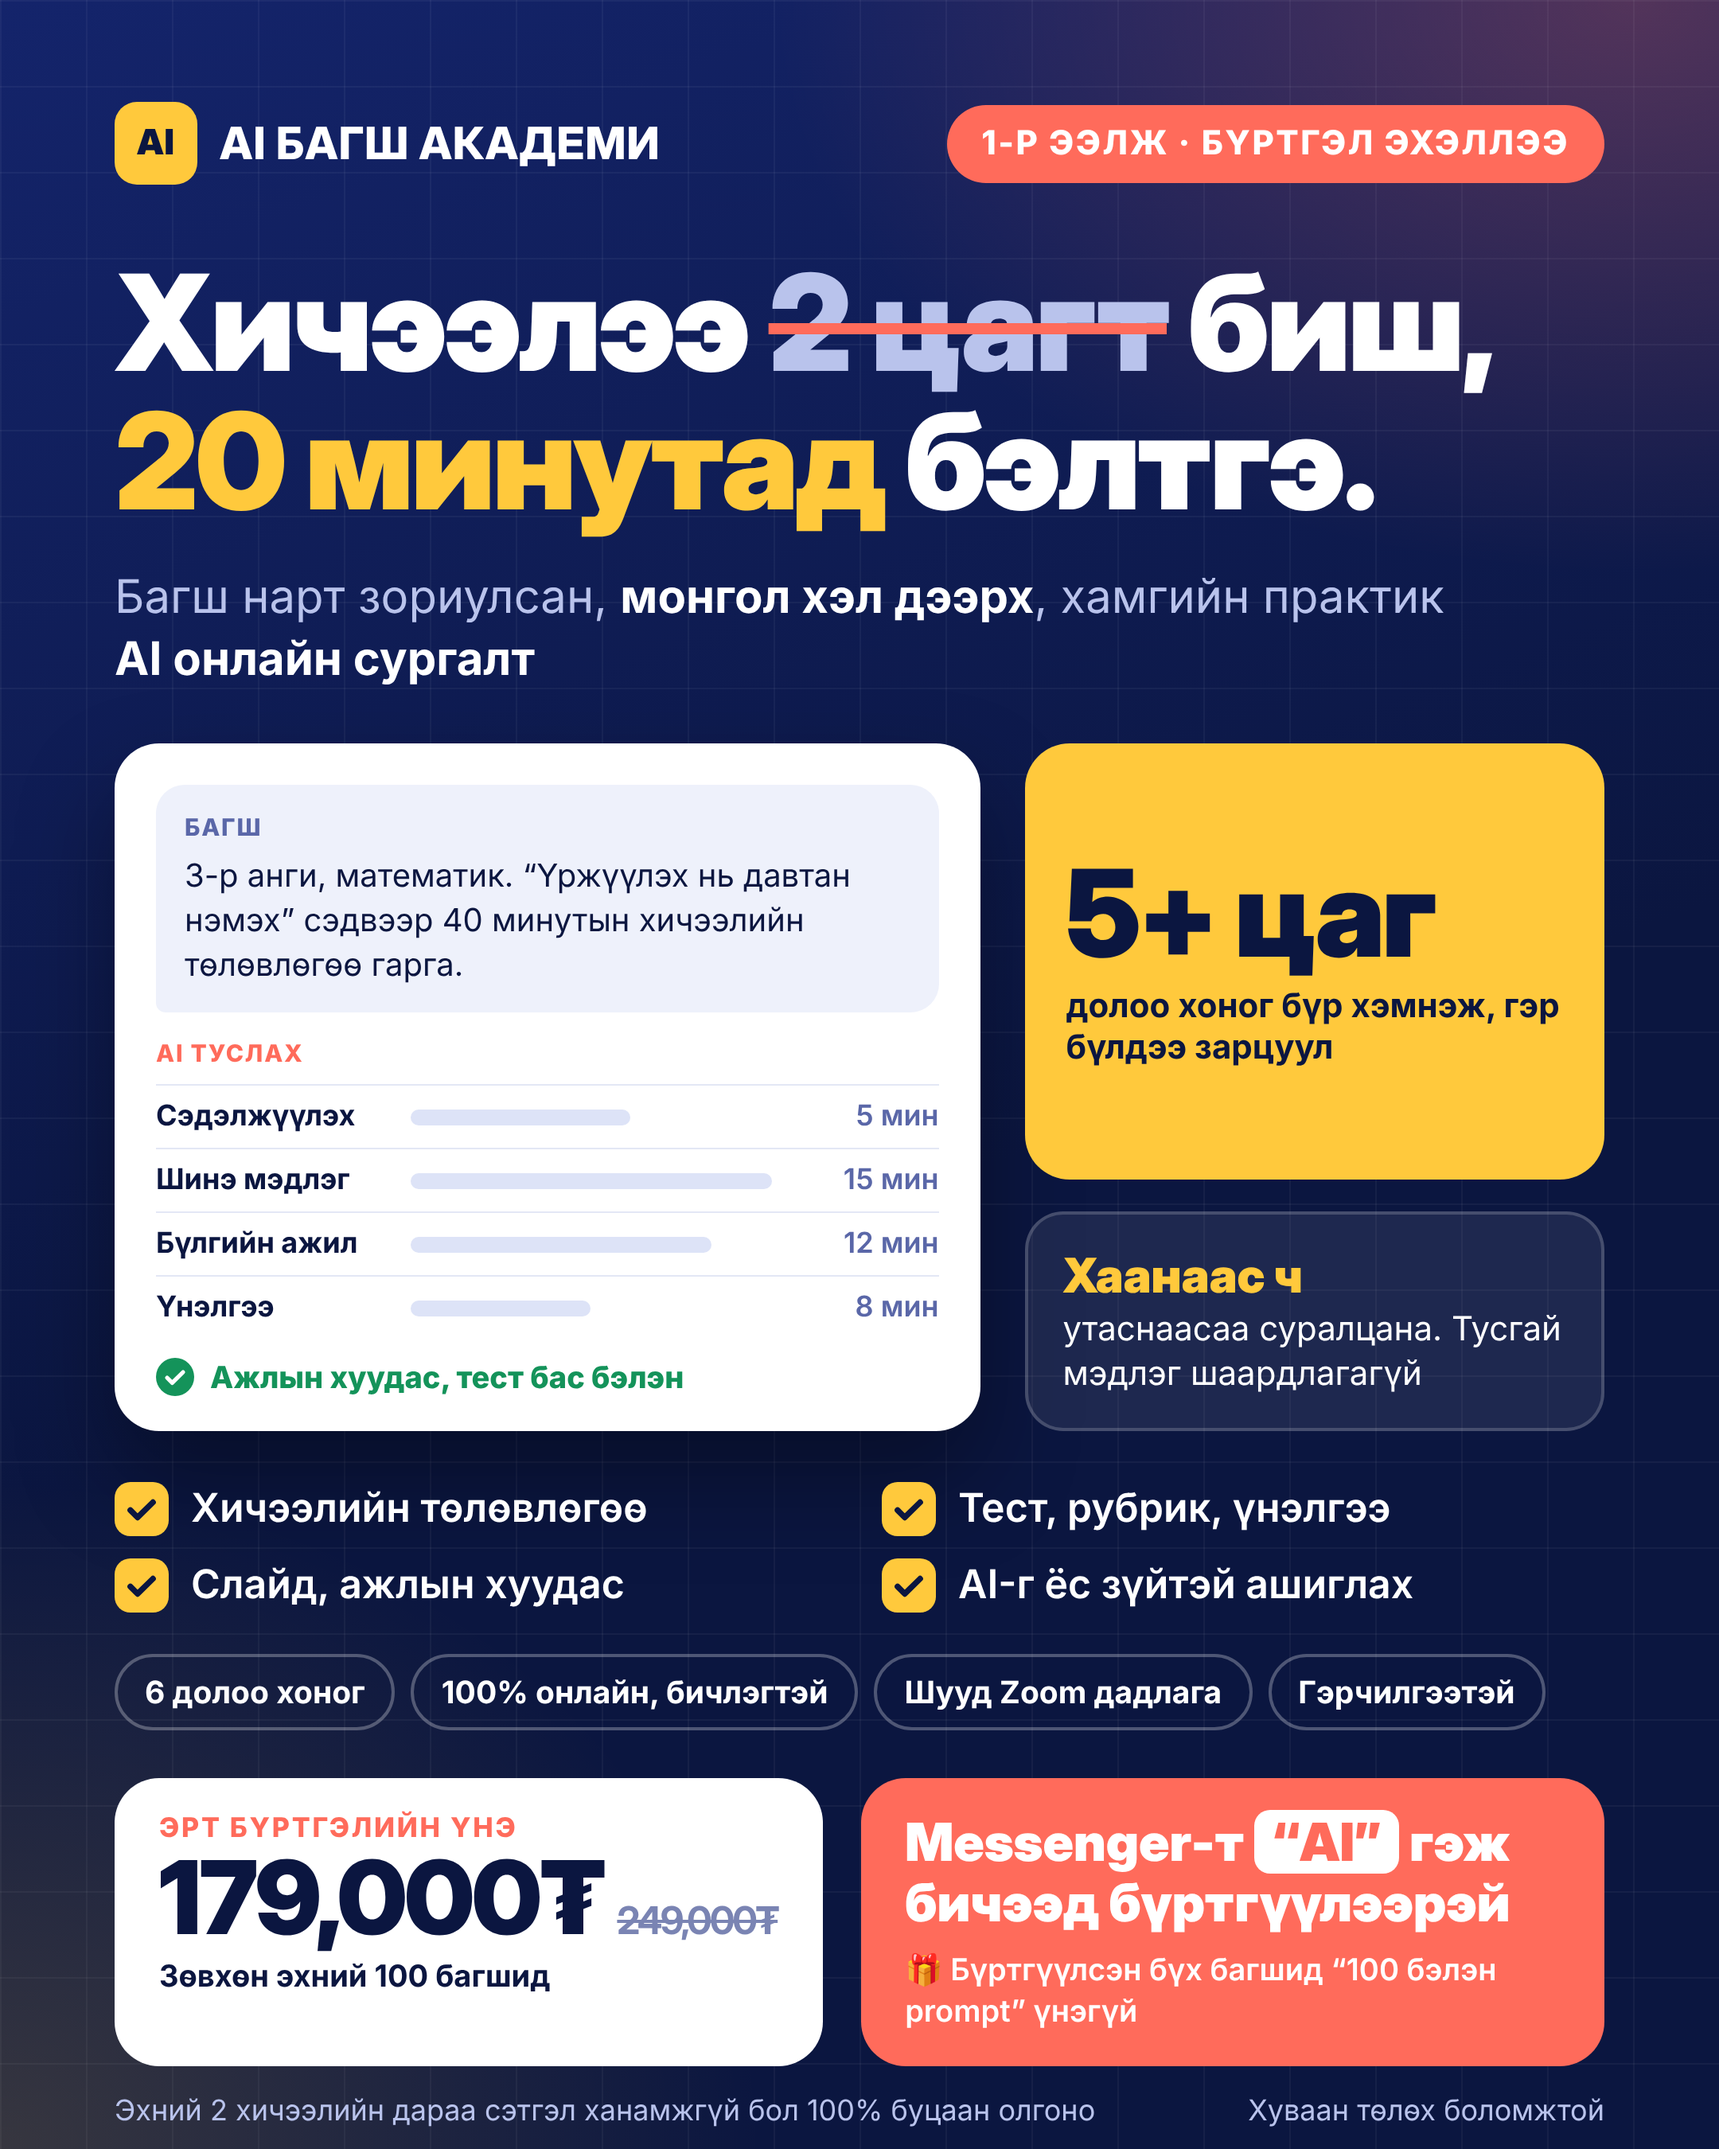
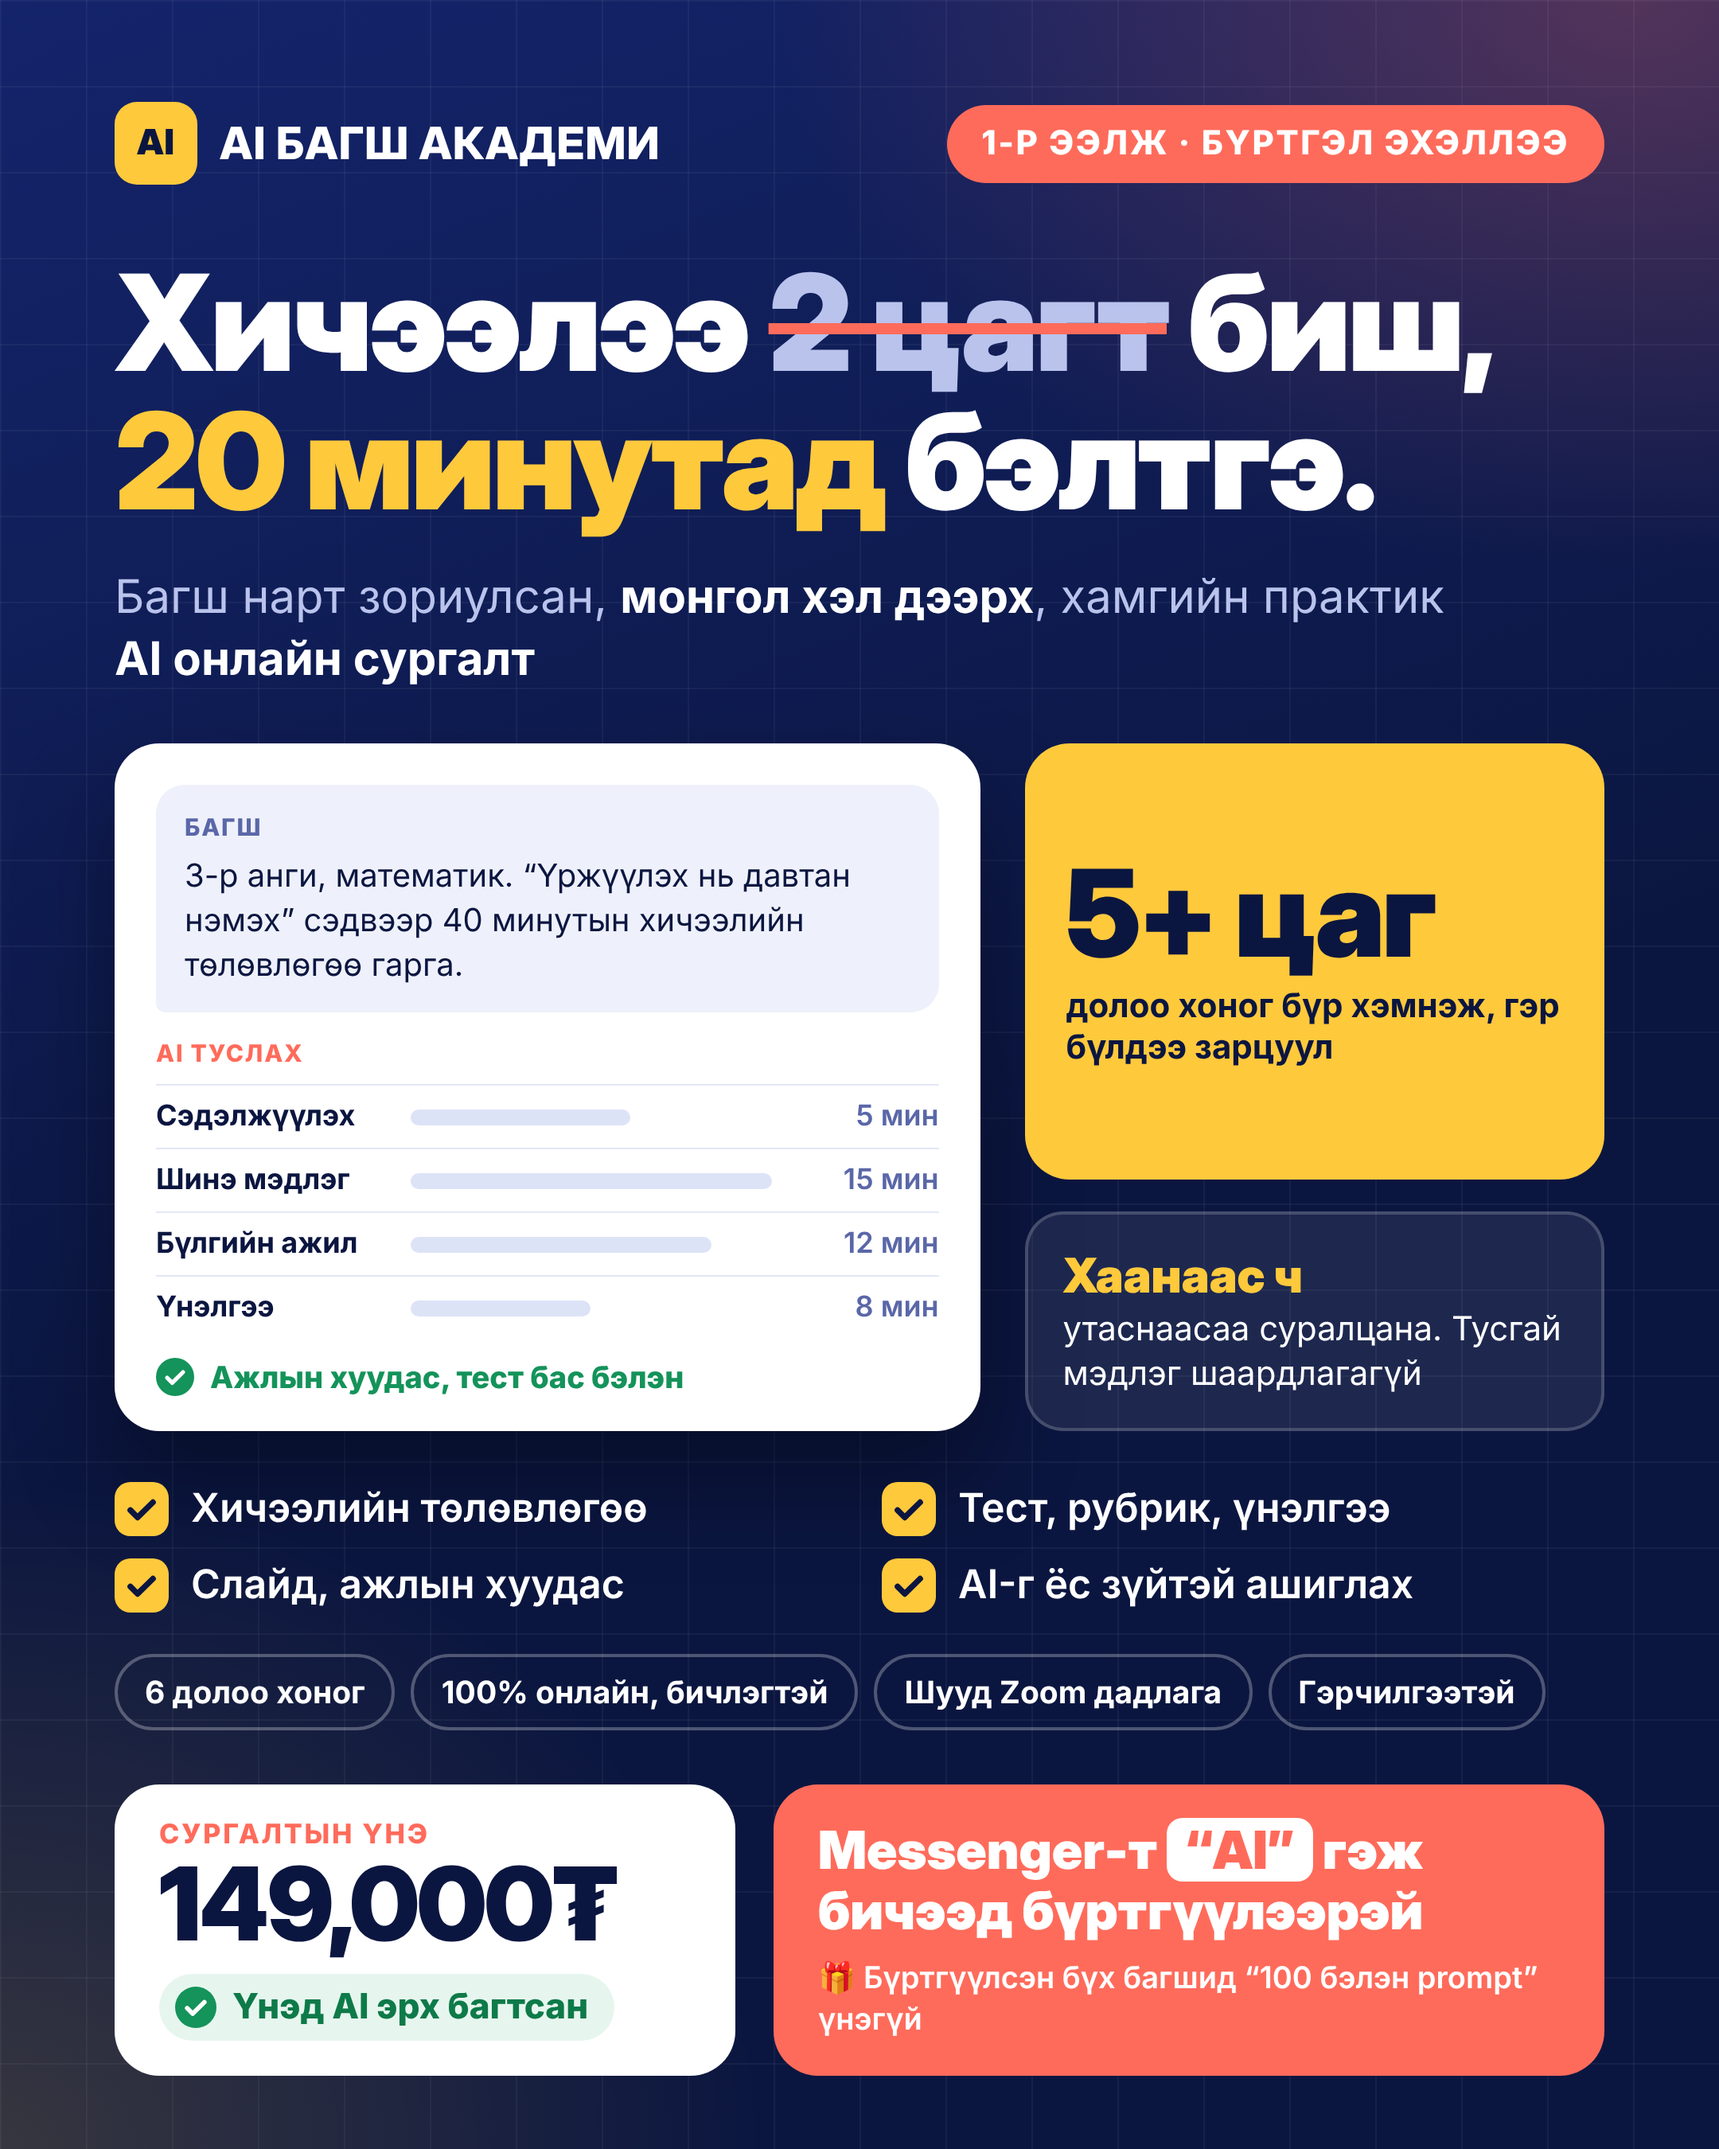
Poster: set price to 149,000₮ with AI access included, remove footer line
Claude-Session: https://claude.ai/code/session_011MF5bAcquYhXXWvdqZTLq1

Changed region(s): [[0.062, 0.8089, 0.8995, 0.9956], [0.7134, 0.9333, 0.9306, 0.9956], [0.8995, 0.8089, 0.9306, 0.84]]

diff --git a/poster/poster.html b/poster/poster.html
@@ -61,12 +61,12 @@
   .facts{display:flex;gap:10px;margin-top:26px;flex-wrap:nowrap}
   .fact{border:2px solid rgba(255,255,255,.28);border-radius:999px;padding:10px 17px;font-size:19.5px;font-weight:700;white-space:nowrap}
 
-  .bottom{margin-top:auto;padding-top:30px;display:flex;gap:24px;align-items:stretch}
+  .bottom{margin-top:auto;padding-top:34px;display:flex;gap:24px;align-items:stretch}
   .price{background:#fff;color:var(--bg);border-radius:28px;padding:22px 28px;min-width:390px}
   .price .eb{font-size:17px;font-weight:800;letter-spacing:.08em;color:var(--coral)}
   .price .now{font-family:"Inter Display";font-size:64px;font-weight:900;letter-spacing:-.02em;line-height:1.05}
   .price .old{font-size:24px;font-weight:700;color:#7A84B3;text-decoration:line-through;margin-left:8px}
-  .price .lim{font-size:19px;font-weight:700;margin-top:4px}
+  .price .lim{display:inline-flex;align-items:center;gap:10px;font-size:22px;font-weight:800;margin-top:10px;background:#E6F6EE;color:#0E7A49;padding:8px 16px 8px 10px;border-radius:999px}
   .cta{flex:1;background:var(--coral);border-radius:28px;padding:22px 28px;display:flex;flex-direction:column;justify-content:center}
   .cta .big{font-family:"Inter Display";font-size:33px;font-weight:900;line-height:1.15}
   .cta .big span{background:#fff;color:var(--coral);padding:0 12px;border-radius:10px}
@@ -141,17 +141,16 @@
   <div class="bottom">
     <div class="price">
       <div>
-        <div class="eb">ЭРТ БҮРТГЭЛИЙН ҮНЭ</div>
-        <div class="now">179,000₮<span class="old">249,000₮</span></div>
+        <div class="eb">СУРГАЛТЫН ҮНЭ</div>
+        <div class="now">149,000₮</div>
       </div>
-      <div class="lim">Зөвхөн эхний 100 багшид</div>
+      <div class="lim"><svg width="26" height="26" viewBox="0 0 24 24"><circle cx="12" cy="12" r="12" fill="#14935A"/><path d="M7 12.5l3.2 3.2L17 9" stroke="#fff" stroke-width="2.6" fill="none" stroke-linecap="round" stroke-linejoin="round"/></svg>Үнэд AI эрх багтсан</div>
     </div>
     <div class="cta">
       <div class="big">Messenger-т <span>“AI”</span> гэж бичээд бүртгүүлээрэй</div>
       <div class="small">🎁 Бүртгүүлсэн бүх багшид “100 бэлэн prompt” үнэгүй</div>
     </div>
   </div>
-  <div class="foot"><span>Эхний 2 хичээлийн дараа сэтгэл ханамжгүй бол 100% буцаан олгоно</span><span>Хуваан төлөх боломжтой</span></div>
 </div>
 <script>if(location.hash==="#story"){document.body.classList.add("story");document.documentElement.style.height="1920px";document.body.style.height="1920px"}</script>
 </body>
